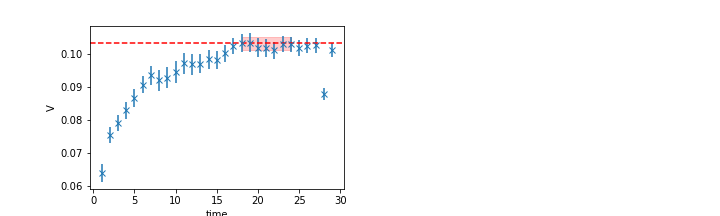
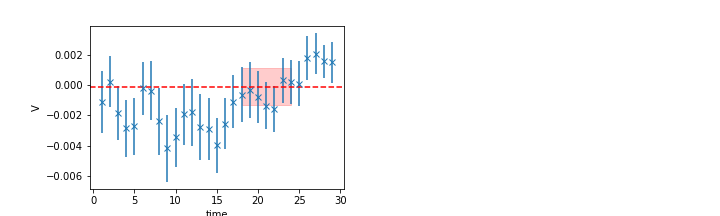
all stats added with right signs

diff --git a/V-Av-improved.py b/V-Av-improved.py
@@ -40,6 +40,10 @@ def sum_with_exceptions(lst,nsq):
             total -= 1/2*(lst[i+3]+lst[i+4]+lst[i+5])
         
         return total/len(lst)
+    elif nsq==3:
+        for i in range(len(lst)):
+            total += lst[i]
+        return total/len(lst)
     else:
         for i in range(0, len(lst), 6):
             total += lst[i]+lst[i+1]+lst[i+2]
@@ -56,17 +60,13 @@ def sum_with_exceptions_jack(lst,nsq,j,i):
         for k in range(len(lst)//2,len(lst), 6):
             total += 1/2*(jack(lst[k][j],i)+jack(lst[k+1][j],i)+jack(lst[k+2][j],i))
             total -= 1/2*(jack(lst[k+3][j],i)+jack(lst[k+4][j],i)+jack(lst[k+5][j],i))
+    elif nsq==3:
+        for k in range(len(lst)):
+            total += jack(lst[k][j],i)
     else:    
         for k in range(0, len(lst), 6):
             total += jack(lst[k][j],i)+jack(lst[k+1][j],i)+jack(lst[k+2][j],i)
             total -= jack(lst[k+3][j],i)+jack(lst[k+4][j],i)+jack(lst[k+5][j],i)
-    '''
-    for i, num in enumerate(lst):
-        if i % 3 == 2:
-            total -= jack(num[j],i)  # Subtract every third element starting from the second
-        else:
-            total += jack(num[j],i)  # Add other elements
-    '''
     return total/len(lst)
 
 '''
@@ -100,19 +100,67 @@ def sum_with_exceptions_jack(lst,nsq,j,i):
 
 
 #########decide here which nsq
-nsq=5
+nsq=1
 ##########
 
 
 f = h5py.File("BsDsStar.h5", "r")
 
+'''
 mom=[[''],
-     ['final_state_GX/operator_GammaY/n2_1/0_0_1','final_state_GY/operator_GammaZ/n2_1/1_0_0', 'final_state_GZ/operator_GammaX/n2_1/0_1_0','final_state_GY/operator_GammaX/n2_1/0_0_1','final_state_GZ/operator_GammaY/n2_1/1_0_0', 'final_state_GX/operator_GammaZ/n2_1/0_1_0'],
-     ['final_state_GY/operator_GammaZ/n2_2/1_1_0','final_state_GX/operator_GammaY/n2_2/0_1_1','final_state_GZ/operator_GammaX/n2_2/1_1_0','final_state_GX/operator_GammaZ/n2_2/1_1_0','final_state_GZ/operator_GammaY/n2_2/1_1_0','final_state_GY/operator_GammaX/n2_2/1_0_1','final_state_GY/operator_GammaZ/n2_2/1_0_1','final_state_GX/operator_GammaY/n2_2/1_0_1','final_state_GZ/operator_GammaX/n2_2/0_1_1','final_state_GX/operator_GammaZ/n2_2/0_1_1','final_state_GZ/operator_GammaY/n2_2/1_0_1','final_state_GY/operator_GammaX/n2_2/0_1_1'],
-     ['final_state_GX/operator_GammaY/n2_3/1_1_1','final_state_GY/operator_GammaZ/n2_3/1_1_1','final_state_GZ/operator_GammaX/n2_3/1_1_1'],
-     ['final_state_GX/operator_GammaY/n2_4/0_0_2','final_state_GY/operator_GammaZ/n2_4/2_0_0', 'final_state_GZ/operator_GammaX/n2_4/0_2_0','final_state_GY/operator_GammaX/n2_4/0_0_2','final_state_GZ/operator_GammaY/n2_4/2_0_0', 'final_state_GX/operator_GammaZ/n2_4/0_2_0'],
+     ['final_state_GX/operator_GammaY/n2_1/0_0_1','final_state_GY/operator_GammaZ/n2_1/1_0_0', 'final_state_GZ/operator_GammaX/n2_1/0_1_0','final_state_GY/operator_GammaX/n2_1/0_0_1','final_state_GZ/operator_GammaY/n2_1/1_0_0', 'final_state_GX/operator_GammaZ/n2_1/0_1_0',
+      'final_state_GX/operator_GammaY/n2_1/0_0_-1','final_state_GY/operator_GammaZ/n2_1/-1_0_0', 'final_state_GZ/operator_GammaX/n2_1/0_-1_0','final_state_GY/operator_GammaX/n2_1/0_0_-1','final_state_GZ/operator_GammaY/n2_1/-1_0_0', 'final_state_GX/operator_GammaZ/n2_1/0_-1_0'],
+     ['final_state_GY/operator_GammaZ/n2_2/1_1_0','final_state_GX/operator_GammaY/n2_2/0_1_1','final_state_GZ/operator_GammaX/n2_2/1_1_0','final_state_GX/operator_GammaZ/n2_2/1_1_0','final_state_GZ/operator_GammaY/n2_2/1_1_0','final_state_GY/operator_GammaX/n2_2/1_0_1','final_state_GY/operator_GammaZ/n2_2/1_0_1','final_state_GX/operator_GammaY/n2_2/1_0_1','final_state_GZ/operator_GammaX/n2_2/0_1_1','final_state_GX/operator_GammaZ/n2_2/0_1_1','final_state_GZ/operator_GammaY/n2_2/1_0_1','final_state_GY/operator_GammaX/n2_2/0_1_1',
+      'final_state_GY/operator_GammaZ/n2_2/1_-1_0','final_state_GX/operator_GammaY/n2_2/0_-1_1','final_state_GZ/operator_GammaX/n2_2/-1_1_0','final_state_GX/operator_GammaZ/n2_2/-1_1_0','final_state_GZ/operator_GammaY/n2_2/1_-1_0','final_state_GY/operator_GammaX/n2_2/-1_0_1','final_state_GY/operator_GammaZ/n2_2/1_0_-1','final_state_GX/operator_GammaY/n2_2/-1_0_1','final_state_GZ/operator_GammaX/n2_2/0_1_-1','final_state_GX/operator_GammaZ/n2_2/0_1_-1','final_state_GZ/operator_GammaY/n2_2/1_0_-1','final_state_GY/operator_GammaX/n2_2/0_-1_1',
+      'final_state_GY/operator_GammaZ/n2_2/-1_1_0','final_state_GX/operator_GammaY/n2_2/0_1_-1','final_state_GZ/operator_GammaX/n2_2/1_-1_0','final_state_GX/operator_GammaZ/n2_2/1_-1_0','final_state_GZ/operator_GammaY/n2_2/-1_1_0','final_state_GY/operator_GammaX/n2_2/1_0_-1','final_state_GY/operator_GammaZ/n2_2/-1_0_1','final_state_GX/operator_GammaY/n2_2/1_0_-1','final_state_GZ/operator_GammaX/n2_2/0_-1_1','final_state_GX/operator_GammaZ/n2_2/0_-1_1','final_state_GZ/operator_GammaY/n2_2/-1_0_1','final_state_GY/operator_GammaX/n2_2/0_1_-1',
+      'final_state_GY/operator_GammaZ/n2_2/-1_-1_0','final_state_GX/operator_GammaY/n2_2/0_-1_-1','final_state_GZ/operator_GammaX/n2_2/-1_-1_0','final_state_GX/operator_GammaZ/n2_2/-1_-1_0','final_state_GZ/operator_GammaY/n2_2/-1_-1_0','final_state_GY/operator_GammaX/n2_2/-1_0_-1','final_state_GY/operator_GammaZ/n2_2/-1_0_-1','final_state_GX/operator_GammaY/n2_2/-1_0_-1','final_state_GZ/operator_GammaX/n2_2/0_-1_-1','final_state_GX/operator_GammaZ/n2_2/0_-1_-1','final_state_GZ/operator_GammaY/n2_2/-1_0_-1','final_state_GY/operator_GammaX/n2_2/0_-1_-1'],
+     ['final_state_GX/operator_GammaY/n2_3/1_1_1','final_state_GY/operator_GammaZ/n2_3/1_1_1','final_state_GZ/operator_GammaX/n2_3/1_1_1','final_state_GY/operator_GammaX/n2_3/1_1_1','final_state_GZ/operator_GammaY/n2_3/1_1_1','final_state_GX/operator_GammaZ/n2_3/1_1_1',
+      'final_state_GX/operator_GammaY/n2_3/-1_1_1','final_state_GY/operator_GammaZ/n2_3/1_1_-1','final_state_GZ/operator_GammaX/n2_3/-1_1_1', 'final_state_GY/operator_GammaX/n2_3/-1_1_1','final_state_GZ/operator_GammaY/n2_3/1_-1_1','final_state_GX/operator_GammaZ/n2_3/-1_1_1',
+      'final_state_GX/operator_GammaY/n2_3/1_-1_1','final_state_GY/operator_GammaZ/n2_3/1_-1_1','final_state_GZ/operator_GammaX/n2_3/1_1_-1', 'final_state_GY/operator_GammaX/n2_3/1_-1_1','final_state_GZ/operator_GammaY/n2_3/1_1_-1','final_state_GX/operator_GammaZ/n2_3/1_1_-1',
+      'final_state_GX/operator_GammaY/n2_3/1_1_-1','final_state_GY/operator_GammaZ/n2_3/-1_1_1','final_state_GZ/operator_GammaX/n2_3/1_-1_1', 'final_state_GY/operator_GammaX/n2_3/1_1_-1','final_state_GZ/operator_GammaY/n2_3/-1_1_1','final_state_GX/operator_GammaZ/n2_3/1_-1_1',
+      'final_state_GX/operator_GammaY/n2_3/-1_-1_1','final_state_GY/operator_GammaZ/n2_3/1_-1_-1','final_state_GZ/operator_GammaX/n2_3/-1_1_-1','final_state_GY/operator_GammaX/n2_3/-1_-1_1','final_state_GZ/operator_GammaY/n2_3/1_-1_-1','final_state_GX/operator_GammaZ/n2_3/-1_1_-1',
+      'final_state_GX/operator_GammaY/n2_3/-1_1_-1','final_state_GY/operator_GammaZ/n2_3/-1_1_-1','final_state_GZ/operator_GammaX/n2_3/-1_-1_1','final_state_GY/operator_GammaX/n2_3/-1_1_-1','final_state_GZ/operator_GammaY/n2_3/-1_1_-1','final_state_GX/operator_GammaZ/n2_3/1_-1_-1',
+      'final_state_GX/operator_GammaY/n2_3/1_-1_-1','final_state_GY/operator_GammaZ/n2_3/-1_-1_1','final_state_GZ/operator_GammaX/n2_3/1_-1_-1','final_state_GY/operator_GammaX/n2_3/1_-1_-1','final_state_GZ/operator_GammaY/n2_3/-1_-1_1','final_state_GX/operator_GammaZ/n2_3/-1_-1_1',
+      'final_state_GX/operator_GammaY/n2_3/-1_-1_-1','final_state_GY/operator_GammaZ/n2_3/-1_-1_-1','final_state_GZ/operator_GammaX/n2_3/-1_-1_-1','final_state_GY/operator_GammaX/n2_3/-1_-1_-1','final_state_GZ/operator_GammaY/n2_3/-1_-1_-1','final_state_GX/operator_GammaZ/n2_3/-1_-1_-1',],
+     ['final_state_GX/operator_GammaY/n2_4/0_0_2','final_state_GY/operator_GammaZ/n2_4/2_0_0', 'final_state_GZ/operator_GammaX/n2_4/0_2_0','final_state_GY/operator_GammaX/n2_4/0_0_2','final_state_GZ/operator_GammaY/n2_4/2_0_0', 'final_state_GX/operator_GammaZ/n2_4/0_2_0',
+      'final_state_GX/operator_GammaY/n2_4/0_0_-2','final_state_GY/operator_GammaZ/n2_4/-2_0_0', 'final_state_GZ/operator_GammaX/n2_4/0_-2_0','final_state_GY/operator_GammaX/n2_4/0_0_-2','final_state_GZ/operator_GammaY/n2_4/-2_0_0', 'final_state_GX/operator_GammaZ/n2_4/0_-2_0'],
      ['final_state_GX/operator_GammaY/n2_5/0_2_1','final_state_GY/operator_GammaZ/n2_5/1_2_0','final_state_GZ/operator_GammaX/n2_5/2_1_0','final_state_GX/operator_GammaZ/n2_5/2_1_0','final_state_GY/operator_GammaX/n2_5/2_0_1','final_state_GZ/operator_GammaY/n2_5/1_2_0','final_state_GX/operator_GammaY/n2_5/2_0_1','final_state_GY/operator_GammaZ/n2_5/1_0_2','final_state_GZ/operator_GammaX/n2_5/0_1_2','final_state_GX/operator_GammaZ/n2_5/0_1_2','final_state_GY/operator_GammaX/n2_5/0_2_1','final_state_GZ/operator_GammaY/n2_5/1_0_2',
-     'final_state_GX/operator_GammaY/n2_5/0_1_2','final_state_GY/operator_GammaZ/n2_5/2_1_0','final_state_GZ/operator_GammaX/n2_5/1_2_0','final_state_GX/operator_GammaZ/n2_5/1_2_0','final_state_GY/operator_GammaX/n2_5/1_0_2','final_state_GZ/operator_GammaY/n2_5/2_1_0','final_state_GX/operator_GammaY/n2_5/1_0_2','final_state_GY/operator_GammaZ/n2_5/2_0_1','final_state_GZ/operator_GammaX/n2_5/0_2_1','final_state_GX/operator_GammaZ/n2_5/0_2_1','final_state_GY/operator_GammaX/n2_5/0_1_2','final_state_GZ/operator_GammaY/n2_5/2_0_1']]
+      'final_state_GX/operator_GammaY/n2_5/0_-2_1','final_state_GY/operator_GammaZ/n2_5/1_-2_0','final_state_GZ/operator_GammaX/n2_5/-2_1_0','final_state_GX/operator_GammaZ/n2_5/-2_1_0','final_state_GY/operator_GammaX/n2_5/-2_0_1','final_state_GZ/operator_GammaY/n2_5/1_-2_0','final_state_GX/operator_GammaY/n2_5/-2_0_1','final_state_GY/operator_GammaZ/n2_5/1_0_-2','final_state_GZ/operator_GammaX/n2_5/0_1_-2','final_state_GX/operator_GammaZ/n2_5/0_1_-2','final_state_GY/operator_GammaX/n2_5/0_-2_1','final_state_GZ/operator_GammaY/n2_5/1_0_-2',
+      'final_state_GX/operator_GammaY/n2_5/0_2_-1','final_state_GY/operator_GammaZ/n2_5/-1_2_0','final_state_GZ/operator_GammaX/n2_5/2_-1_0','final_state_GX/operator_GammaZ/n2_5/2_-1_0','final_state_GY/operator_GammaX/n2_5/2_0_-1','final_state_GZ/operator_GammaY/n2_5/-1_2_0','final_state_GX/operator_GammaY/n2_5/2_0_-1','final_state_GY/operator_GammaZ/n2_5/-1_0_2','final_state_GZ/operator_GammaX/n2_5/0_-1_2','final_state_GX/operator_GammaZ/n2_5/0_-1_2','final_state_GY/operator_GammaX/n2_5/0_2_-1','final_state_GZ/operator_GammaY/n2_5/-1_0_2',
+      'final_state_GX/operator_GammaY/n2_5/0_-2_-1','final_state_GY/operator_GammaZ/n2_5/-1_-2_0','final_state_GZ/operator_GammaX/n2_5/-2_-1_0','final_state_GX/operator_GammaZ/n2_5/-2_-1_0','final_state_GY/operator_GammaX/n2_5/-2_0_-1','final_state_GZ/operator_GammaY/n2_5/-1_-2_0','final_state_GX/operator_GammaY/n2_5/-2_0_-1','final_state_GY/operator_GammaZ/n2_5/-1_0_-2','final_state_GZ/operator_GammaX/n2_5/0_-1_-2','final_state_GX/operator_GammaZ/n2_5/0_-1_-2','final_state_GY/operator_GammaX/n2_5/0_-2_-1','final_state_GZ/operator_GammaY/n2_5/-1_0_-2',
+     'final_state_GX/operator_GammaY/n2_5/0_1_2','final_state_GY/operator_GammaZ/n2_5/2_1_0','final_state_GZ/operator_GammaX/n2_5/1_2_0','final_state_GX/operator_GammaZ/n2_5/1_2_0','final_state_GY/operator_GammaX/n2_5/1_0_2','final_state_GZ/operator_GammaY/n2_5/2_1_0','final_state_GX/operator_GammaY/n2_5/1_0_2','final_state_GY/operator_GammaZ/n2_5/2_0_1','final_state_GZ/operator_GammaX/n2_5/0_2_1','final_state_GX/operator_GammaZ/n2_5/0_2_1','final_state_GY/operator_GammaX/n2_5/0_1_2','final_state_GZ/operator_GammaY/n2_5/2_0_1',
+     'final_state_GX/operator_GammaY/n2_5/0_-1_2','final_state_GY/operator_GammaZ/n2_5/2_-1_0','final_state_GZ/operator_GammaX/n2_5/-1_2_0','final_state_GX/operator_GammaZ/n2_5/-1_2_0','final_state_GY/operator_GammaX/n2_5/-1_0_2','final_state_GZ/operator_GammaY/n2_5/2_-1_0','final_state_GX/operator_GammaY/n2_5/-1_0_2','final_state_GY/operator_GammaZ/n2_5/2_0_-1','final_state_GZ/operator_GammaX/n2_5/0_2_-1','final_state_GX/operator_GammaZ/n2_5/0_2_-1','final_state_GY/operator_GammaX/n2_5/0_-1_2','final_state_GZ/operator_GammaY/n2_5/2_0_-1',
+     'final_state_GX/operator_GammaY/n2_5/0_1_-2','final_state_GY/operator_GammaZ/n2_5/-2_1_0','final_state_GZ/operator_GammaX/n2_5/1_-2_0','final_state_GX/operator_GammaZ/n2_5/1_-2_0','final_state_GY/operator_GammaX/n2_5/1_0_-2','final_state_GZ/operator_GammaY/n2_5/2_1_0','final_state_GX/operator_GammaY/n2_5/1_0_-2','final_state_GY/operator_GammaZ/n2_5/-2_0_1','final_state_GZ/operator_GammaX/n2_5/0_-2_1','final_state_GX/operator_GammaZ/n2_5/0_-2_1','final_state_GY/operator_GammaX/n2_5/0_1_-2','final_state_GZ/operator_GammaY/n2_5/-2_0_1',
+     'final_state_GX/operator_GammaY/n2_5/0_-1_-2','final_state_GY/operator_GammaZ/n2_5/-2_-1_0','final_state_GZ/operator_GammaX/n2_5/-1_-2_0','final_state_GX/operator_GammaZ/n2_5/-1_-2_0','final_state_GY/operator_GammaX/n2_5/-1_0_-2','final_state_GZ/operator_GammaY/n2_5/-2_-1_0','final_state_GX/operator_GammaY/n2_5/-1_0_-2','final_state_GY/operator_GammaZ/n2_5/-2_0_-1','final_state_GZ/operator_GammaX/n2_5/0_-2_-1','final_state_GX/operator_GammaZ/n2_5/0_-2_-1','final_state_GY/operator_GammaX/n2_5/0_-1_-2','final_state_GZ/operator_GammaY/n2_5/-2_0_-1']]
+'''     
+
+mom=[[''],
+     ['final_state_GX/operator_GammaY/n2_1/0_0_1','final_state_GY/operator_GammaZ/n2_1/1_0_0', 'final_state_GZ/operator_GammaX/n2_1/0_1_0','final_state_GY/operator_GammaX/n2_1/0_0_1','final_state_GZ/operator_GammaY/n2_1/1_0_0', 'final_state_GX/operator_GammaZ/n2_1/0_1_0',
+      'final_state_GY/operator_GammaX/n2_1/0_0_-1','final_state_GZ/operator_GammaY/n2_1/-1_0_0', 'final_state_GX/operator_GammaZ/n2_1/0_-1_0','final_state_GX/operator_GammaY/n2_1/0_0_-1','final_state_GY/operator_GammaZ/n2_1/-1_0_0', 'final_state_GZ/operator_GammaX/n2_1/0_-1_0'],
+     ['final_state_GY/operator_GammaZ/n2_2/1_1_0','final_state_GX/operator_GammaY/n2_2/0_1_1','final_state_GZ/operator_GammaX/n2_2/1_1_0','final_state_GX/operator_GammaZ/n2_2/1_1_0','final_state_GZ/operator_GammaY/n2_2/1_1_0','final_state_GY/operator_GammaX/n2_2/1_0_1','final_state_GY/operator_GammaZ/n2_2/1_0_1','final_state_GX/operator_GammaY/n2_2/1_0_1','final_state_GZ/operator_GammaX/n2_2/0_1_1','final_state_GX/operator_GammaZ/n2_2/0_1_1','final_state_GZ/operator_GammaY/n2_2/1_0_1','final_state_GY/operator_GammaX/n2_2/0_1_1',
+      'final_state_GY/operator_GammaZ/n2_2/1_-1_0','final_state_GX/operator_GammaY/n2_2/0_-1_1','final_state_GZ/operator_GammaX/n2_2/-1_1_0','final_state_GX/operator_GammaZ/n2_2/-1_1_0','final_state_GZ/operator_GammaY/n2_2/1_-1_0','final_state_GY/operator_GammaX/n2_2/-1_0_1','final_state_GY/operator_GammaZ/n2_2/1_0_-1','final_state_GX/operator_GammaY/n2_2/-1_0_1','final_state_GZ/operator_GammaX/n2_2/0_1_-1','final_state_GX/operator_GammaZ/n2_2/0_1_-1','final_state_GZ/operator_GammaY/n2_2/1_0_-1','final_state_GY/operator_GammaX/n2_2/0_-1_1',
+      'final_state_GX/operator_GammaZ/n2_2/1_-1_0','final_state_GZ/operator_GammaY/n2_2/-1_1_0','final_state_GY/operator_GammaX/n2_2/1_0_-1','final_state_GY/operator_GammaZ/n2_2/-1_1_0','final_state_GX/operator_GammaY/n2_2/0_1_-1','final_state_GZ/operator_GammaX/n2_2/1_-1_0','final_state_GX/operator_GammaZ/n2_2/0_-1_1','final_state_GZ/operator_GammaY/n2_2/-1_0_1','final_state_GY/operator_GammaX/n2_2/0_1_-1','final_state_GY/operator_GammaZ/n2_2/-1_0_1','final_state_GX/operator_GammaY/n2_2/1_0_-1','final_state_GZ/operator_GammaX/n2_2/0_-1_1',
+      'final_state_GX/operator_GammaZ/n2_2/-1_-1_0','final_state_GZ/operator_GammaY/n2_2/-1_-1_0','final_state_GY/operator_GammaX/n2_2/-1_0_-1','final_state_GY/operator_GammaZ/n2_2/-1_-1_0','final_state_GX/operator_GammaY/n2_2/0_-1_-1','final_state_GZ/operator_GammaX/n2_2/-1_-1_0',
+      'final_state_GX/operator_GammaZ/n2_2/0_-1_-1','final_state_GZ/operator_GammaY/n2_2/-1_0_-1','final_state_GY/operator_GammaX/n2_2/0_-1_-1','final_state_GY/operator_GammaZ/n2_2/-1_0_-1','final_state_GX/operator_GammaY/n2_2/-1_0_-1','final_state_GZ/operator_GammaX/n2_2/0_-1_-1'],
+     ['final_state_GX/operator_GammaY/n2_3/1_1_1','final_state_GY/operator_GammaZ/n2_3/1_1_1','final_state_GZ/operator_GammaX/n2_3/1_1_1','final_state_GY/operator_GammaX/n2_3/1_1_1','final_state_GZ/operator_GammaY/n2_3/1_1_1','final_state_GX/operator_GammaZ/n2_3/1_1_1',
+      'final_state_GX/operator_GammaY/n2_3/-1_1_1','final_state_GY/operator_GammaZ/n2_3/1_1_-1','final_state_GZ/operator_GammaX/n2_3/-1_1_1', 'final_state_GY/operator_GammaX/n2_3/-1_1_1','final_state_GZ/operator_GammaY/n2_3/1_-1_1','final_state_GX/operator_GammaZ/n2_3/-1_1_1',
+      'final_state_GX/operator_GammaY/n2_3/1_-1_1','final_state_GY/operator_GammaZ/n2_3/1_-1_1','final_state_GZ/operator_GammaX/n2_3/1_1_-1', 'final_state_GY/operator_GammaX/n2_3/1_-1_1','final_state_GZ/operator_GammaY/n2_3/1_1_-1','final_state_GX/operator_GammaZ/n2_3/1_1_-1',
+      'final_state_GY/operator_GammaX/n2_3/1_1_-1','final_state_GZ/operator_GammaY/n2_3/-1_1_1','final_state_GX/operator_GammaZ/n2_3/1_-1_1','final_state_GX/operator_GammaY/n2_3/1_1_-1','final_state_GY/operator_GammaZ/n2_3/-1_1_1','final_state_GZ/operator_GammaX/n2_3/1_-1_1', 
+      'final_state_GX/operator_GammaY/n2_3/-1_-1_1','final_state_GY/operator_GammaZ/n2_3/1_-1_-1','final_state_GZ/operator_GammaX/n2_3/-1_1_-1','final_state_GY/operator_GammaX/n2_3/-1_-1_1','final_state_GZ/operator_GammaY/n2_3/1_-1_-1','final_state_GX/operator_GammaZ/n2_3/-1_1_-1',
+      'final_state_GY/operator_GammaX/n2_3/-1_1_-1','final_state_GZ/operator_GammaY/n2_3/-1_1_-1','final_state_GX/operator_GammaZ/n2_3/1_-1_-1','final_state_GX/operator_GammaY/n2_3/-1_1_-1','final_state_GY/operator_GammaZ/n2_3/-1_1_-1','final_state_GZ/operator_GammaX/n2_3/-1_-1_1',
+      'final_state_GY/operator_GammaX/n2_3/1_-1_-1','final_state_GZ/operator_GammaY/n2_3/-1_-1_1','final_state_GX/operator_GammaZ/n2_3/-1_-1_1','final_state_GX/operator_GammaY/n2_3/1_-1_-1','final_state_GY/operator_GammaZ/n2_3/-1_-1_1','final_state_GZ/operator_GammaX/n2_3/1_-1_-1',
+      'final_state_GY/operator_GammaX/n2_3/-1_-1_-1','final_state_GZ/operator_GammaY/n2_3/-1_-1_-1','final_state_GX/operator_GammaZ/n2_3/-1_-1_-1','final_state_GX/operator_GammaY/n2_3/-1_-1_-1','final_state_GY/operator_GammaZ/n2_3/-1_-1_-1','final_state_GZ/operator_GammaX/n2_3/-1_-1_-1'],
+     ['final_state_GX/operator_GammaY/n2_4/0_0_2','final_state_GY/operator_GammaZ/n2_4/2_0_0', 'final_state_GZ/operator_GammaX/n2_4/0_2_0','final_state_GY/operator_GammaX/n2_4/0_0_2','final_state_GZ/operator_GammaY/n2_4/2_0_0', 'final_state_GX/operator_GammaZ/n2_4/0_2_0',
+      'final_state_GX/operator_GammaY/n2_4/0_0_-2','final_state_GY/operator_GammaZ/n2_4/-2_0_0', 'final_state_GZ/operator_GammaX/n2_4/0_-2_0','final_state_GY/operator_GammaX/n2_4/0_0_-2','final_state_GZ/operator_GammaY/n2_4/-2_0_0', 'final_state_GX/operator_GammaZ/n2_4/0_-2_0'],
+     ['final_state_GX/operator_GammaY/n2_5/0_2_1','final_state_GY/operator_GammaZ/n2_5/1_2_0','final_state_GZ/operator_GammaX/n2_5/2_1_0','final_state_GX/operator_GammaZ/n2_5/2_1_0','final_state_GY/operator_GammaX/n2_5/2_0_1','final_state_GZ/operator_GammaY/n2_5/1_2_0','final_state_GX/operator_GammaY/n2_5/2_0_1','final_state_GY/operator_GammaZ/n2_5/1_0_2','final_state_GZ/operator_GammaX/n2_5/0_1_2','final_state_GX/operator_GammaZ/n2_5/0_1_2','final_state_GY/operator_GammaX/n2_5/0_2_1','final_state_GZ/operator_GammaY/n2_5/1_0_2',
+      'final_state_GX/operator_GammaY/n2_5/0_-2_1','final_state_GY/operator_GammaZ/n2_5/1_-2_0','final_state_GZ/operator_GammaX/n2_5/-2_1_0','final_state_GX/operator_GammaZ/n2_5/-2_1_0','final_state_GY/operator_GammaX/n2_5/-2_0_1','final_state_GZ/operator_GammaY/n2_5/1_-2_0','final_state_GX/operator_GammaY/n2_5/-2_0_1','final_state_GY/operator_GammaZ/n2_5/1_0_-2','final_state_GZ/operator_GammaX/n2_5/0_1_-2','final_state_GX/operator_GammaZ/n2_5/0_1_-2','final_state_GY/operator_GammaX/n2_5/0_-2_1','final_state_GZ/operator_GammaY/n2_5/1_0_-2',
+      'final_state_GX/operator_GammaZ/n2_5/2_-1_0','final_state_GY/operator_GammaX/n2_5/2_0_-1','final_state_GZ/operator_GammaY/n2_5/-1_2_0','final_state_GX/operator_GammaY/n2_5/0_2_-1','final_state_GY/operator_GammaZ/n2_5/-1_2_0','final_state_GZ/operator_GammaX/n2_5/2_-1_0','final_state_GX/operator_GammaZ/n2_5/0_-1_2','final_state_GY/operator_GammaX/n2_5/0_2_-1','final_state_GZ/operator_GammaY/n2_5/-1_0_2','final_state_GX/operator_GammaY/n2_5/2_0_-1','final_state_GY/operator_GammaZ/n2_5/-1_0_2','final_state_GZ/operator_GammaX/n2_5/0_-1_2',
+      'final_state_GX/operator_GammaZ/n2_5/-2_-1_0','final_state_GY/operator_GammaX/n2_5/-2_0_-1','final_state_GZ/operator_GammaY/n2_5/-1_-2_0','final_state_GX/operator_GammaY/n2_5/0_-2_-1','final_state_GY/operator_GammaZ/n2_5/-1_-2_0','final_state_GZ/operator_GammaX/n2_5/-2_-1_0','final_state_GX/operator_GammaZ/n2_5/0_-1_-2','final_state_GY/operator_GammaX/n2_5/0_-2_-1','final_state_GZ/operator_GammaY/n2_5/-1_0_-2','final_state_GX/operator_GammaY/n2_5/-2_0_-1','final_state_GY/operator_GammaZ/n2_5/-1_0_-2','final_state_GZ/operator_GammaX/n2_5/0_-1_-2',
+     'final_state_GX/operator_GammaY/n2_5/0_1_2','final_state_GY/operator_GammaZ/n2_5/2_1_0','final_state_GZ/operator_GammaX/n2_5/1_2_0','final_state_GX/operator_GammaZ/n2_5/1_2_0','final_state_GY/operator_GammaX/n2_5/1_0_2','final_state_GZ/operator_GammaY/n2_5/2_1_0','final_state_GX/operator_GammaY/n2_5/1_0_2','final_state_GY/operator_GammaZ/n2_5/2_0_1','final_state_GZ/operator_GammaX/n2_5/0_2_1','final_state_GX/operator_GammaZ/n2_5/0_2_1','final_state_GY/operator_GammaX/n2_5/0_1_2','final_state_GZ/operator_GammaY/n2_5/2_0_1',
+     'final_state_GX/operator_GammaY/n2_5/0_-1_2','final_state_GY/operator_GammaZ/n2_5/2_-1_0','final_state_GZ/operator_GammaX/n2_5/-1_2_0','final_state_GX/operator_GammaZ/n2_5/-1_2_0','final_state_GY/operator_GammaX/n2_5/-1_0_2','final_state_GZ/operator_GammaY/n2_5/2_-1_0','final_state_GX/operator_GammaY/n2_5/-1_0_2','final_state_GY/operator_GammaZ/n2_5/2_0_-1','final_state_GZ/operator_GammaX/n2_5/0_2_-1','final_state_GX/operator_GammaZ/n2_5/0_2_-1','final_state_GY/operator_GammaX/n2_5/0_-1_2','final_state_GZ/operator_GammaY/n2_5/2_0_-1',
+     'final_state_GX/operator_GammaZ/n2_5/1_-2_0','final_state_GY/operator_GammaX/n2_5/1_0_-2','final_state_GZ/operator_GammaY/n2_5/2_1_0','final_state_GX/operator_GammaY/n2_5/0_1_-2','final_state_GY/operator_GammaZ/n2_5/-2_1_0','final_state_GZ/operator_GammaX/n2_5/1_-2_0','final_state_GX/operator_GammaZ/n2_5/0_-2_1','final_state_GY/operator_GammaX/n2_5/0_1_-2','final_state_GZ/operator_GammaY/n2_5/-2_0_1','final_state_GX/operator_GammaY/n2_5/1_0_-2','final_state_GY/operator_GammaZ/n2_5/-2_0_1','final_state_GZ/operator_GammaX/n2_5/0_-2_1',
+     'final_state_GX/operator_GammaZ/n2_5/-1_-2_0','final_state_GY/operator_GammaX/n2_5/-1_0_-2','final_state_GZ/operator_GammaY/n2_5/-2_-1_0','final_state_GX/operator_GammaY/n2_5/0_-1_-2','final_state_GY/operator_GammaZ/n2_5/-2_-1_0','final_state_GZ/operator_GammaX/n2_5/-1_-2_0',
+     'final_state_GX/operator_GammaZ/n2_5/0_-2_-1','final_state_GY/operator_GammaX/n2_5/0_-1_-2','final_state_GZ/operator_GammaY/n2_5/-2_0_-1','final_state_GX/operator_GammaY/n2_5/-1_0_-2','final_state_GY/operator_GammaZ/n2_5/-2_0_-1','final_state_GZ/operator_GammaX/n2_5/0_-2_-1']]
      
 
 ptmom=['0_0_0','1_0_0','1_1_0','1_1_1', '2_0_0','2_1_0']
